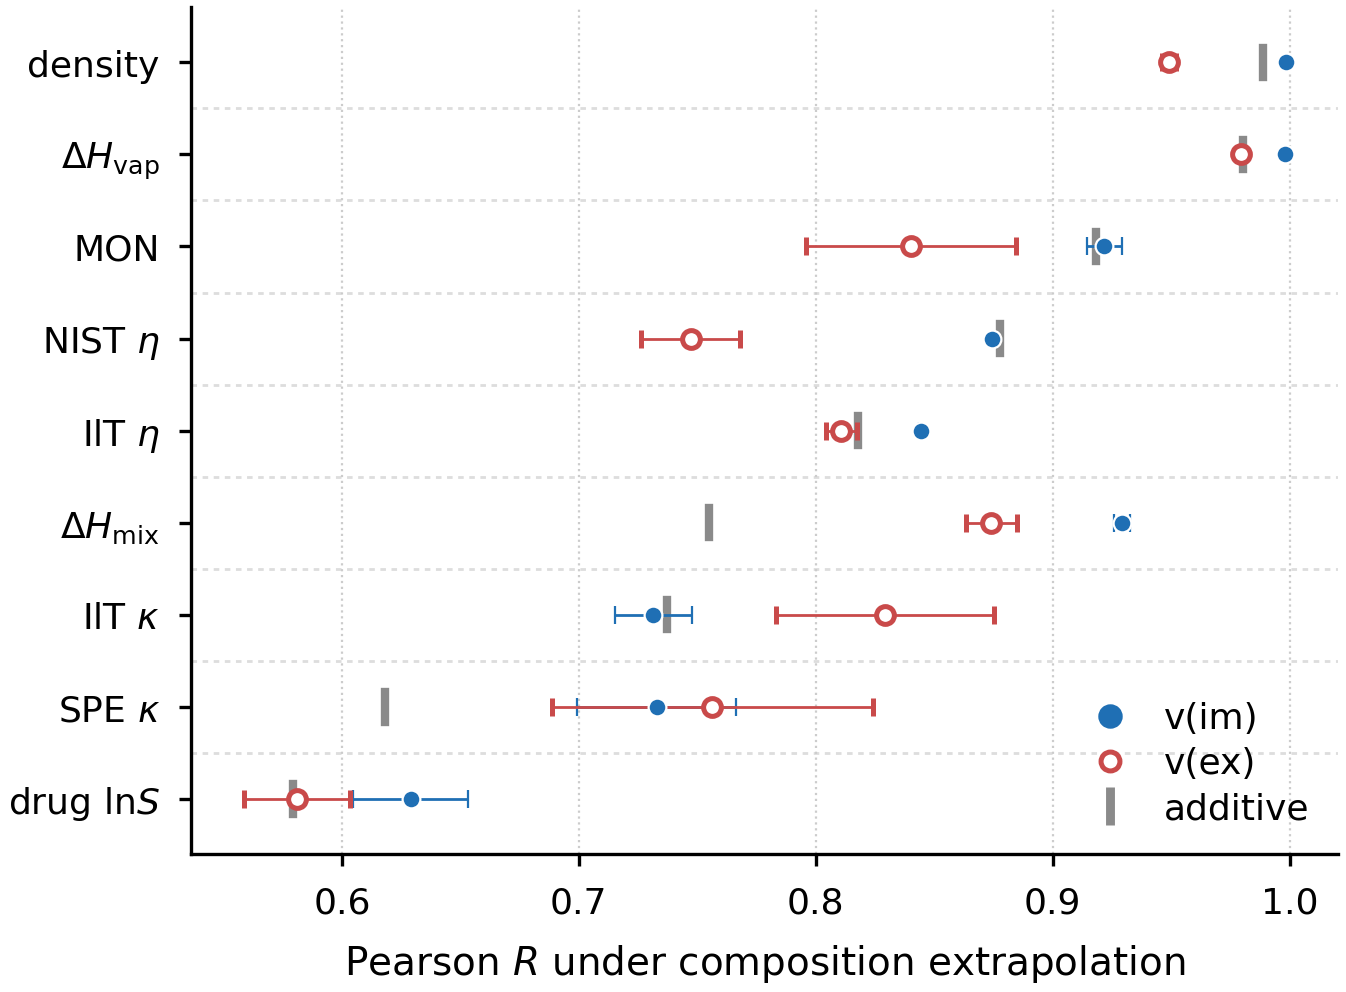
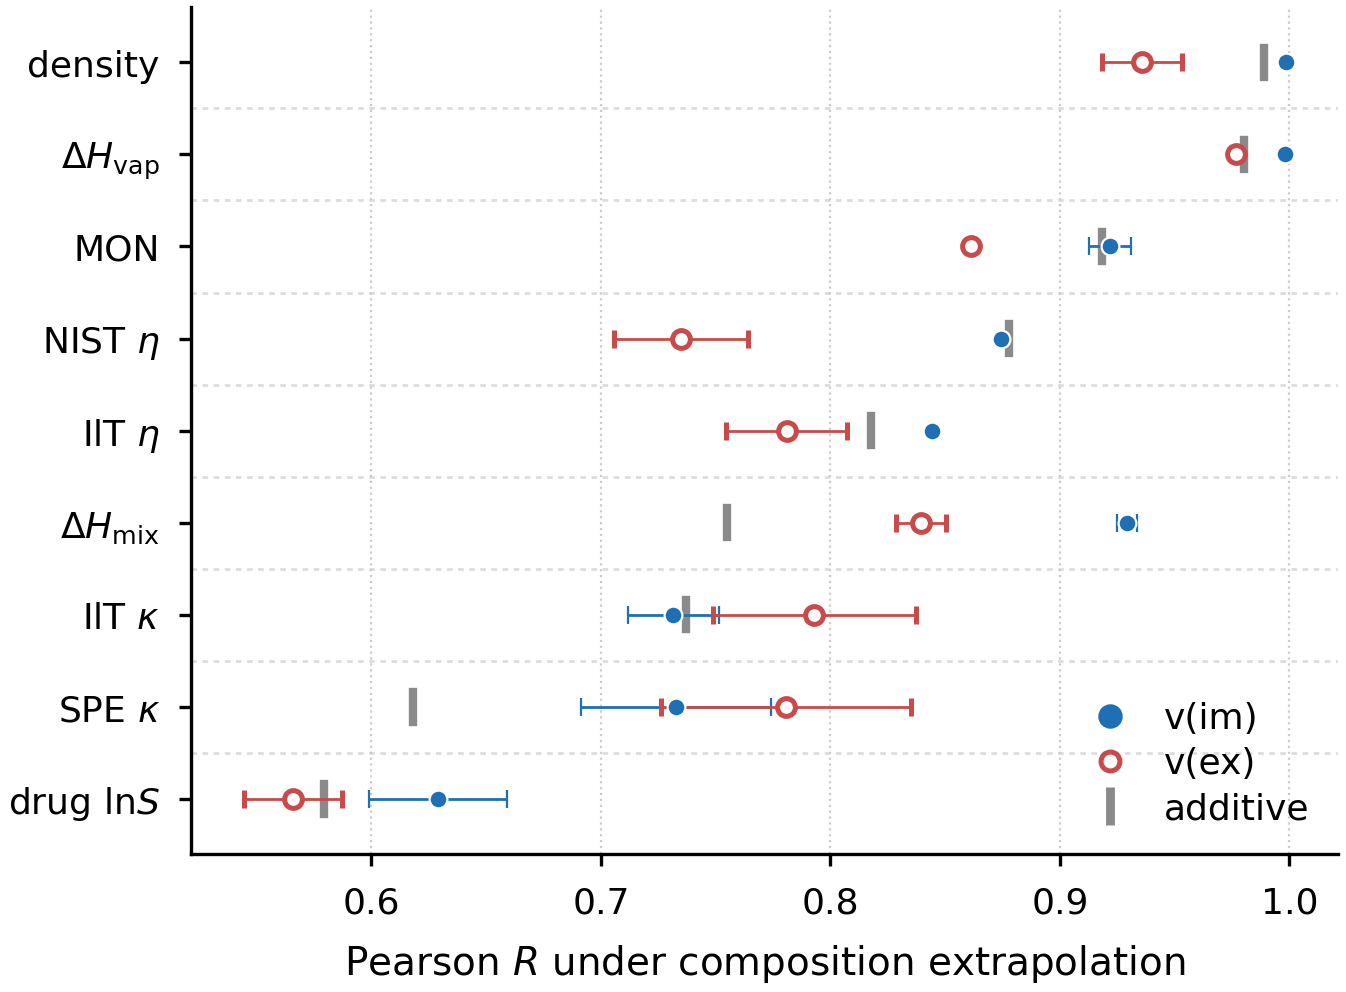
Redraw the figures from the current tables: the coverage panel carried pre-deep v(ex) values

diff --git a/figures/make_figures.py b/figures/make_figures.py
@@ -211,12 +211,12 @@ def fig_c():
 # --------------------------------------------------------------------------- #
 # SPE kappa: original split and the relaxed-ceiling run (Supplementary Table S4)
 SPE = {'subsets': ['default', 'raised ceiling'],
-       'v(im)': [0.733, 0.911], 'v(im)_sd': [0.034, 0.023],
-       'v(ex)': [0.756, 0.868], 'v(ex)_sd': [0.068, 0.022]}
+       'v(im)': [0.733, 0.911], 'v(im)_sd': [0.041, 0.023],
+       'v(ex)': [0.781, 0.867], 'v(ex)_sd': [0.054, 0.018]}
 
 # IlT kappa: component-count split vs official five-fold random split
-ILTK = [('v(im)', C_IM, 0.732, 0.016, 0.929, 0.005),
-        ('v(ex)', C_EX, 0.829, 0.046, 0.975, 0.001)]
+ILTK = [('v(im)', C_IM, 0.732, 0.020, 0.929, 0.006),
+        ('v(ex)', C_EX, 0.793, 0.044, 0.974, 0.001)]
 
 
 def fig_d():
